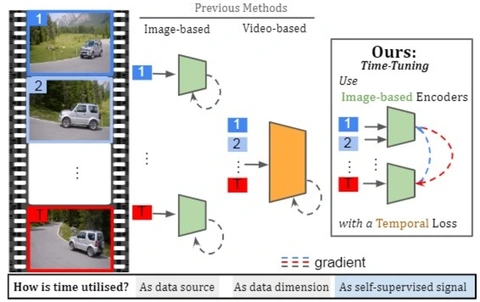
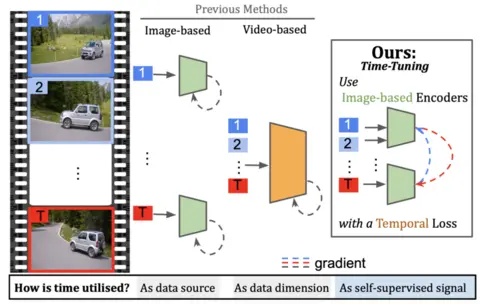
Deploying to gh-pages from @ yukimasano/yukimasano.github.io@980c1b1b5db7523487d5f7900764343c6d798cb2 🚀

diff --git a/blog/2021/diagrams/index.html b/blog/2021/diagrams/index.html
@@ -148,8 +148,8 @@ sequenceDiagram
 </code></pre></div></div>
 
 <div class="jekyll-diagrams diagrams mermaid">
-  <svg id="mermaid-1692888481751" width="100%" xmlns="http://www.w3.org/2000/svg" height="100%" style="max-width:450px;" viewbox="-50 -10 450 231"><style>#mermaid-1692888481751 .label{font-family:trebuchet ms,verdana,arial;color:#333}#mermaid-1692888481751 .node circle,#mermaid-1692888481751 .node ellipse,#mermaid-1692888481751 .node polygon,#mermaid-1692888481751 .node rect{fill:#ececff;stroke:#9370db;stroke-width:1px}#mermaid-1692888481751 .node.clickable{cursor:pointer}#mermaid-1692888481751 .arrowheadPath{fill:#333}#mermaid-1692888481751 .edgePath .path{stroke:#333;stroke-width:1.5px}#mermaid-1692888481751 .edgeLabel{background-color:#e8e8e8}#mermaid-1692888481751 .cluster rect{fill:#ffffde!important;stroke:#aa3!important;stroke-width:1px!important}#mermaid-1692888481751 .cluster text{fill:#333}#mermaid-1692888481751 div.mermaidTooltip{position:absolute;text-align:center;max-width:200px;padding:2px;font-family:trebuchet ms,verdana,arial;font-size:12px;background:#ffffde;border:1px solid #aa3;border-radius:2px;pointer-events:none;z-index:100}#mermaid-1692888481751 .actor{stroke:#ccf;fill:#ececff}#mermaid-1692888481751 text.actor{fill:#000;stroke:none}#mermaid-1692888481751 .actor-line{stroke:grey}#mermaid-1692888481751 .messageLine0{marker-end:"url(#arrowhead)"}#mermaid-1692888481751 .messageLine0,#mermaid-1692888481751 .messageLine1{stroke-width:1.5;stroke-dasharray:"2 2";stroke:#333}#mermaid-1692888481751 #arrowhead{fill:#333}#mermaid-1692888481751 #crosshead path{fill:#333!important;stroke:#333!important}#mermaid-1692888481751 .messageText{fill:#333;stroke:none}#mermaid-1692888481751 .labelBox{stroke:#ccf;fill:#ececff}#mermaid-1692888481751 .labelText,#mermaid-1692888481751 .loopText{fill:#000;stroke:none}#mermaid-1692888481751 .loopLine{stroke-width:2;stroke-dasharray:"2 2";marker-end:"url(#arrowhead)";stroke:#ccf}#mermaid-1692888481751 .note{stroke:#aa3;fill:#fff5ad}#mermaid-1692888481751 .noteText{fill:#000;stroke:none;font-family:trebuchet ms,verdana,arial;font-size:14px}#mermaid-1692888481751 .section{stroke:none;opacity:.2}#mermaid-1692888481751 .section0{fill:rgba(102,102,255,.49)}#mermaid-1692888481751 .section2{fill:#fff400}#mermaid-1692888481751 .section1,#mermaid-1692888481751 .section3{fill:#fff;opacity:.2}#mermaid-1692888481751 .sectionTitle0,#mermaid-1692888481751 .sectionTitle1,#mermaid-1692888481751 .sectionTitle2,#mermaid-1692888481751 .sectionTitle3{fill:#333}#mermaid-1692888481751 .sectionTitle{text-anchor:start;font-size:11px;text-height:14px}#mermaid-1692888481751 .grid .tick{stroke:#d3d3d3;opacity:.3;shape-rendering:crispEdges}#mermaid-1692888481751 .grid path{stroke-width:0}#mermaid-1692888481751 .today{fill:none;stroke:red;stroke-width:2px}#mermaid-1692888481751 .task{stroke-width:2}#mermaid-1692888481751 .taskText{text-anchor:middle;font-size:11px}#mermaid-1692888481751 .taskTextOutsideRight{fill:#000;text-anchor:start;font-size:11px}#mermaid-1692888481751 .taskTextOutsideLeft{fill:#000;text-anchor:end;font-size:11px}#mermaid-1692888481751 .taskText0,#mermaid-1692888481751 .taskText1,#mermaid-1692888481751 .taskText2,#mermaid-1692888481751 .taskText3{fill:#fff}#mermaid-1692888481751 .task0,#mermaid-1692888481751 .task1,#mermaid-1692888481751 .task2,#mermaid-1692888481751 .task3{fill:#8a90dd;stroke:#534fbc}#mermaid-1692888481751 .taskTextOutside0,#mermaid-1692888481751 .taskTextOutside1,#mermaid-1692888481751 .taskTextOutside2,#mermaid-1692888481751 .taskTextOutside3{fill:#000}#mermaid-1692888481751 .active0,#mermaid-1692888481751 .active1,#mermaid-1692888481751 .active2,#mermaid-1692888481751 .active3{fill:#bfc7ff;stroke:#534fbc}#mermaid-1692888481751 .activeText0,#mermaid-1692888481751 .activeText1,#mermaid-1692888481751 .activeText2,#mermaid-1692888481751 .activeText3{fill:#000!important}#mermaid-1692888481751 .done0,#mermaid-1692888481751 .done1,#mermaid-1692888481751 .done2,#mermaid-1692888481751 .done3{stroke:grey;fill:#d3d3d3;stroke-width:2}#mermaid-1692888481751 .doneText0,#mermaid-1692888481751 .doneText1,#mermaid-1692888481751 .doneText2,#mermaid-1692888481751 .doneText3{fill:#000!important}#mermaid-1692888481751 .crit0,#mermaid-1692888481751 .crit1,#mermaid-1692888481751 .crit2,#mermaid-1692888481751 .crit3{stroke:#f88;fill:red;stroke-width:2}#mermaid-1692888481751 .activeCrit0,#mermaid-1692888481751 .activeCrit1,#mermaid-1692888481751 .activeCrit2,#mermaid-1692888481751 .activeCrit3{stroke:#f88;fill:#bfc7ff;stroke-width:2}#mermaid-1692888481751 .doneCrit0,#mermaid-1692888481751 .doneCrit1,#mermaid-1692888481751 .doneCrit2,#mermaid-1692888481751 .doneCrit3{stroke:#f88;fill:#d3d3d3;stroke-width:2;cursor:pointer;shape-rendering:crispEdges}#mermaid-1692888481751 .activeCritText0,#mermaid-1692888481751 .activeCritText1,#mermaid-1692888481751 .activeCritText2,#mermaid-1692888481751 .activeCritText3,#mermaid-1692888481751 .doneCritText0,#mermaid-1692888481751 .doneCritText1,#mermaid-1692888481751 .doneCritText2,#mermaid-1692888481751 .doneCritText3{fill:#000!important}#mermaid-1692888481751 .titleText{text-anchor:middle;font-size:18px;fill:#000}#mermaid-1692888481751 g.classGroup text{fill:#9370db;stroke:none;font-family:trebuchet ms,verdana,arial;font-size:10px}#mermaid-1692888481751 g.classGroup rect{fill:#ececff;stroke:#9370db}#mermaid-1692888481751 g.classGroup line{stroke:#9370db;stroke-width:1}#mermaid-1692888481751 .classLabel .box{stroke:none;stroke-width:0;fill:#ececff;opacity:.5}#mermaid-1692888481751 .classLabel .label{fill:#9370db;font-size:10px}#mermaid-1692888481751 .relation{stroke:#9370db;stroke-width:1;fill:none}#mermaid-1692888481751 #compositionEnd,#mermaid-1692888481751 #compositionStart{fill:#9370db;stroke:#9370db;stroke-width:1}#mermaid-1692888481751 #aggregationEnd,#mermaid-1692888481751 #aggregationStart{fill:#ececff;stroke:#9370db;stroke-width:1}#mermaid-1692888481751 #dependencyEnd,#mermaid-1692888481751 #dependencyStart,#mermaid-1692888481751 #extensionEnd,#mermaid-1692888481751 #extensionStart{fill:#9370db;stroke:#9370db;stroke-width:1}#mermaid-1692888481751 .branch-label,#mermaid-1692888481751 .commit-id,#mermaid-1692888481751 .commit-msg{fill:#d3d3d3;color:#d3d3d3}</style>
-<style>#mermaid-1692888481751 {
+  <svg id="mermaid-1692889837065" width="100%" xmlns="http://www.w3.org/2000/svg" height="100%" style="max-width:450px;" viewbox="-50 -10 450 231"><style>#mermaid-1692889837065 .label{font-family:trebuchet ms,verdana,arial;color:#333}#mermaid-1692889837065 .node circle,#mermaid-1692889837065 .node ellipse,#mermaid-1692889837065 .node polygon,#mermaid-1692889837065 .node rect{fill:#ececff;stroke:#9370db;stroke-width:1px}#mermaid-1692889837065 .node.clickable{cursor:pointer}#mermaid-1692889837065 .arrowheadPath{fill:#333}#mermaid-1692889837065 .edgePath .path{stroke:#333;stroke-width:1.5px}#mermaid-1692889837065 .edgeLabel{background-color:#e8e8e8}#mermaid-1692889837065 .cluster rect{fill:#ffffde!important;stroke:#aa3!important;stroke-width:1px!important}#mermaid-1692889837065 .cluster text{fill:#333}#mermaid-1692889837065 div.mermaidTooltip{position:absolute;text-align:center;max-width:200px;padding:2px;font-family:trebuchet ms,verdana,arial;font-size:12px;background:#ffffde;border:1px solid #aa3;border-radius:2px;pointer-events:none;z-index:100}#mermaid-1692889837065 .actor{stroke:#ccf;fill:#ececff}#mermaid-1692889837065 text.actor{fill:#000;stroke:none}#mermaid-1692889837065 .actor-line{stroke:grey}#mermaid-1692889837065 .messageLine0{marker-end:"url(#arrowhead)"}#mermaid-1692889837065 .messageLine0,#mermaid-1692889837065 .messageLine1{stroke-width:1.5;stroke-dasharray:"2 2";stroke:#333}#mermaid-1692889837065 #arrowhead{fill:#333}#mermaid-1692889837065 #crosshead path{fill:#333!important;stroke:#333!important}#mermaid-1692889837065 .messageText{fill:#333;stroke:none}#mermaid-1692889837065 .labelBox{stroke:#ccf;fill:#ececff}#mermaid-1692889837065 .labelText,#mermaid-1692889837065 .loopText{fill:#000;stroke:none}#mermaid-1692889837065 .loopLine{stroke-width:2;stroke-dasharray:"2 2";marker-end:"url(#arrowhead)";stroke:#ccf}#mermaid-1692889837065 .note{stroke:#aa3;fill:#fff5ad}#mermaid-1692889837065 .noteText{fill:#000;stroke:none;font-family:trebuchet ms,verdana,arial;font-size:14px}#mermaid-1692889837065 .section{stroke:none;opacity:.2}#mermaid-1692889837065 .section0{fill:rgba(102,102,255,.49)}#mermaid-1692889837065 .section2{fill:#fff400}#mermaid-1692889837065 .section1,#mermaid-1692889837065 .section3{fill:#fff;opacity:.2}#mermaid-1692889837065 .sectionTitle0,#mermaid-1692889837065 .sectionTitle1,#mermaid-1692889837065 .sectionTitle2,#mermaid-1692889837065 .sectionTitle3{fill:#333}#mermaid-1692889837065 .sectionTitle{text-anchor:start;font-size:11px;text-height:14px}#mermaid-1692889837065 .grid .tick{stroke:#d3d3d3;opacity:.3;shape-rendering:crispEdges}#mermaid-1692889837065 .grid path{stroke-width:0}#mermaid-1692889837065 .today{fill:none;stroke:red;stroke-width:2px}#mermaid-1692889837065 .task{stroke-width:2}#mermaid-1692889837065 .taskText{text-anchor:middle;font-size:11px}#mermaid-1692889837065 .taskTextOutsideRight{fill:#000;text-anchor:start;font-size:11px}#mermaid-1692889837065 .taskTextOutsideLeft{fill:#000;text-anchor:end;font-size:11px}#mermaid-1692889837065 .taskText0,#mermaid-1692889837065 .taskText1,#mermaid-1692889837065 .taskText2,#mermaid-1692889837065 .taskText3{fill:#fff}#mermaid-1692889837065 .task0,#mermaid-1692889837065 .task1,#mermaid-1692889837065 .task2,#mermaid-1692889837065 .task3{fill:#8a90dd;stroke:#534fbc}#mermaid-1692889837065 .taskTextOutside0,#mermaid-1692889837065 .taskTextOutside1,#mermaid-1692889837065 .taskTextOutside2,#mermaid-1692889837065 .taskTextOutside3{fill:#000}#mermaid-1692889837065 .active0,#mermaid-1692889837065 .active1,#mermaid-1692889837065 .active2,#mermaid-1692889837065 .active3{fill:#bfc7ff;stroke:#534fbc}#mermaid-1692889837065 .activeText0,#mermaid-1692889837065 .activeText1,#mermaid-1692889837065 .activeText2,#mermaid-1692889837065 .activeText3{fill:#000!important}#mermaid-1692889837065 .done0,#mermaid-1692889837065 .done1,#mermaid-1692889837065 .done2,#mermaid-1692889837065 .done3{stroke:grey;fill:#d3d3d3;stroke-width:2}#mermaid-1692889837065 .doneText0,#mermaid-1692889837065 .doneText1,#mermaid-1692889837065 .doneText2,#mermaid-1692889837065 .doneText3{fill:#000!important}#mermaid-1692889837065 .crit0,#mermaid-1692889837065 .crit1,#mermaid-1692889837065 .crit2,#mermaid-1692889837065 .crit3{stroke:#f88;fill:red;stroke-width:2}#mermaid-1692889837065 .activeCrit0,#mermaid-1692889837065 .activeCrit1,#mermaid-1692889837065 .activeCrit2,#mermaid-1692889837065 .activeCrit3{stroke:#f88;fill:#bfc7ff;stroke-width:2}#mermaid-1692889837065 .doneCrit0,#mermaid-1692889837065 .doneCrit1,#mermaid-1692889837065 .doneCrit2,#mermaid-1692889837065 .doneCrit3{stroke:#f88;fill:#d3d3d3;stroke-width:2;cursor:pointer;shape-rendering:crispEdges}#mermaid-1692889837065 .activeCritText0,#mermaid-1692889837065 .activeCritText1,#mermaid-1692889837065 .activeCritText2,#mermaid-1692889837065 .activeCritText3,#mermaid-1692889837065 .doneCritText0,#mermaid-1692889837065 .doneCritText1,#mermaid-1692889837065 .doneCritText2,#mermaid-1692889837065 .doneCritText3{fill:#000!important}#mermaid-1692889837065 .titleText{text-anchor:middle;font-size:18px;fill:#000}#mermaid-1692889837065 g.classGroup text{fill:#9370db;stroke:none;font-family:trebuchet ms,verdana,arial;font-size:10px}#mermaid-1692889837065 g.classGroup rect{fill:#ececff;stroke:#9370db}#mermaid-1692889837065 g.classGroup line{stroke:#9370db;stroke-width:1}#mermaid-1692889837065 .classLabel .box{stroke:none;stroke-width:0;fill:#ececff;opacity:.5}#mermaid-1692889837065 .classLabel .label{fill:#9370db;font-size:10px}#mermaid-1692889837065 .relation{stroke:#9370db;stroke-width:1;fill:none}#mermaid-1692889837065 #compositionEnd,#mermaid-1692889837065 #compositionStart{fill:#9370db;stroke:#9370db;stroke-width:1}#mermaid-1692889837065 #aggregationEnd,#mermaid-1692889837065 #aggregationStart{fill:#ececff;stroke:#9370db;stroke-width:1}#mermaid-1692889837065 #dependencyEnd,#mermaid-1692889837065 #dependencyStart,#mermaid-1692889837065 #extensionEnd,#mermaid-1692889837065 #extensionStart{fill:#9370db;stroke:#9370db;stroke-width:1}#mermaid-1692889837065 .branch-label,#mermaid-1692889837065 .commit-id,#mermaid-1692889837065 .commit-msg{fill:#d3d3d3;color:#d3d3d3}</style>
+<style>#mermaid-1692889837065 {
     color: rgb(0, 0, 0);
     font: normal normal 400 normal 16px / normal "Times New Roman";
   }</style>

diff --git a/index.html b/index.html
@@ -246,7 +246,7 @@ Check them out: <a href="https://arxiv.org/abs/2304.00961" rel="external nofollo
     
 
     <!-- Fallback to the original file -->
-    <img src="/assets/img/publication_preview/timetuning.jpeg" class="preview z-depth-1 rounded" width="auto" height="auto" alt="timetuning.jpeg" onerror="this.onerror=null; $('.responsive-img-srcset').remove();">
+    <img src="/assets/img/publication_preview/timetuning.png" class="preview z-depth-1 rounded" width="auto" height="auto" alt="timetuning.png" onerror="this.onerror=null; $('.responsive-img-srcset').remove();">
 
   </picture>
 

diff --git a/publications/index.html b/publications/index.html
@@ -273,7 +273,7 @@
     
 
     <!-- Fallback to the original file -->
-    <img src="/assets/img/publication_preview/timetuning.jpeg" class="preview z-depth-1 rounded" width="auto" height="auto" alt="timetuning.jpeg" onerror="this.onerror=null; $('.responsive-img-srcset').remove();">
+    <img src="/assets/img/publication_preview/timetuning.png" class="preview z-depth-1 rounded" width="auto" height="auto" alt="timetuning.png" onerror="this.onerror=null; $('.responsive-img-srcset').remove();">
 
   </picture>
 
